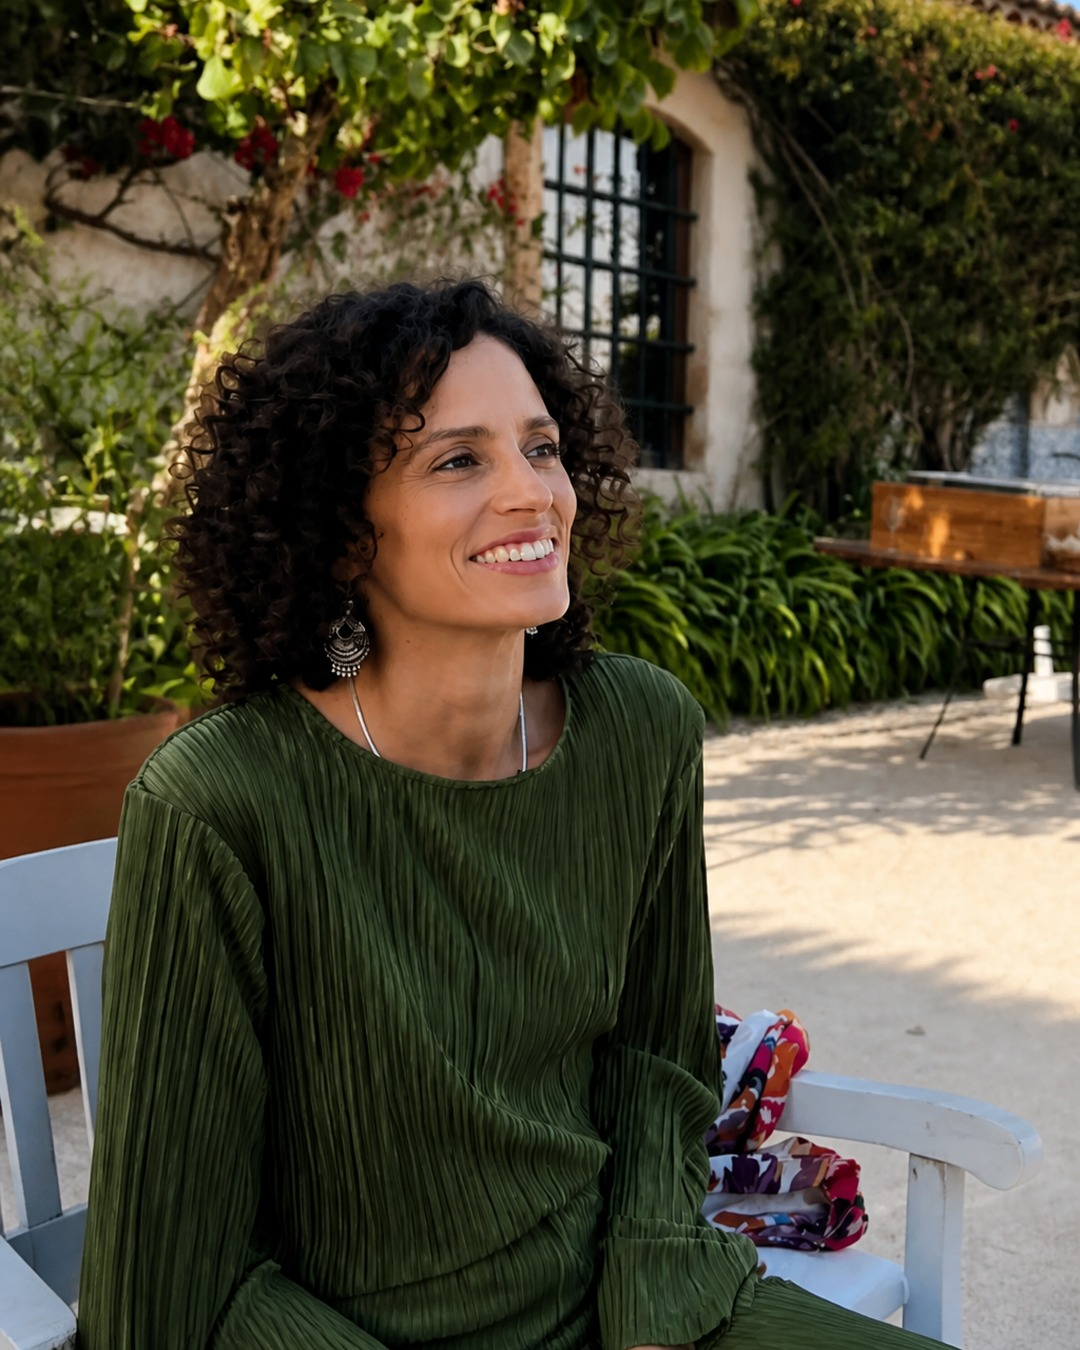
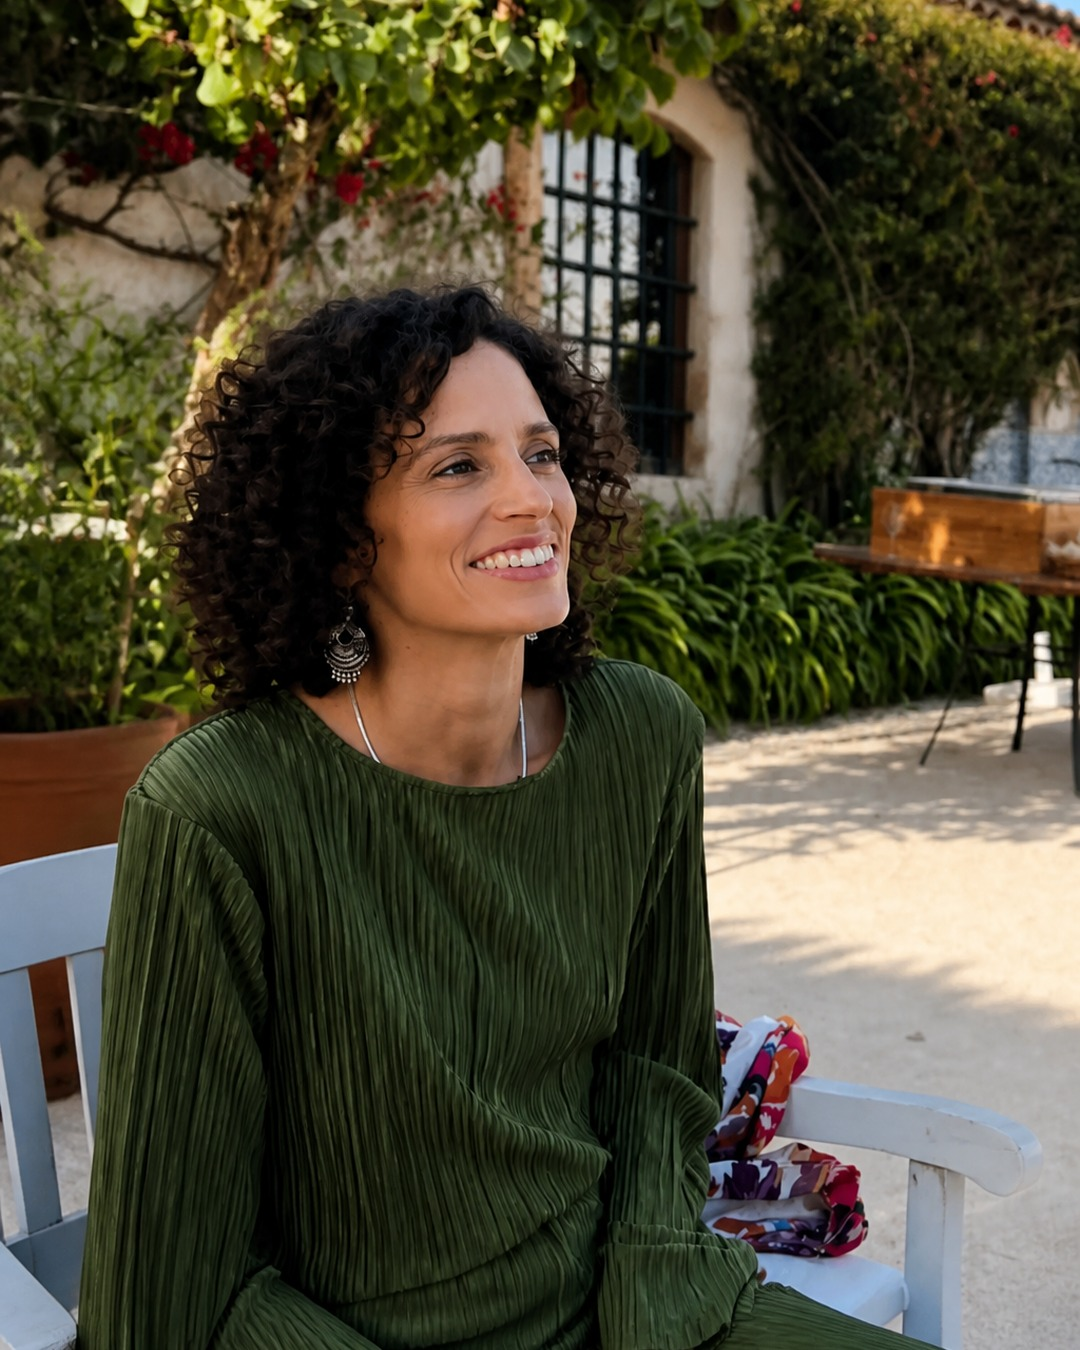
Melhora hero mobile removendo fundo branco e unificando gradiente.
Ajusta crop da imagem, fade suave entre foto e conteúdo, e fundo sage/cream contínuo.

diff --git a/styles.css b/styles.css
@@ -503,8 +503,14 @@ ul {
   .hero {
     display: block;
     min-height: auto;
-    overflow: visible;
-    padding: var(--header-h) 0 0;
+    overflow: hidden;
+    padding: var(--header-h) 0 2rem;
+    background: linear-gradient(
+      180deg,
+      var(--sage-light) 0%,
+      var(--cream) 52%,
+      var(--beige) 100%
+    );
   }
 
   .hero-media {
@@ -512,35 +518,44 @@ ul {
     inset: auto;
     width: 100%;
     aspect-ratio: 4 / 5;
-    max-height: min(62vh, 520px);
+    min-height: min(72vh, 620px);
+    max-height: none;
+  }
+
+  .hero-media picture {
+    height: 100%;
+    min-height: inherit;
   }
 
   .hero-photo {
     object-fit: cover;
-    object-position: 55% 22%;
+    object-position: center 28%;
+    min-height: 100%;
   }
 
   .hero-veil {
     background:
       linear-gradient(
         to bottom,
-        rgba(74, 90, 68, 0.05) 0%,
-        rgba(168, 180, 164, 0.12) 40%,
-        rgba(232, 240, 228, 0.92) 88%,
-        var(--cream) 100%
+        rgba(74, 90, 68, 0.06) 0%,
+        transparent 28%,
+        rgba(212, 224, 208, 0.35) 62%,
+        rgba(240, 245, 236, 0.92) 88%,
+        rgba(240, 245, 236, 1) 100%
       );
   }
 
   .hero-inner {
     position: relative;
-    margin-top: -2.5rem;
-    padding: 0 var(--space) 2.5rem;
+    margin-top: -4.5rem;
+    padding: 0 var(--space);
+    z-index: 2;
   }
 
   .hero-copy {
     max-width: none;
-    background: var(--cream);
-    padding-top: 0.25rem;
+    background: transparent;
+    padding: 0.5rem 0 0;
   }
 
   .hero-brand {
